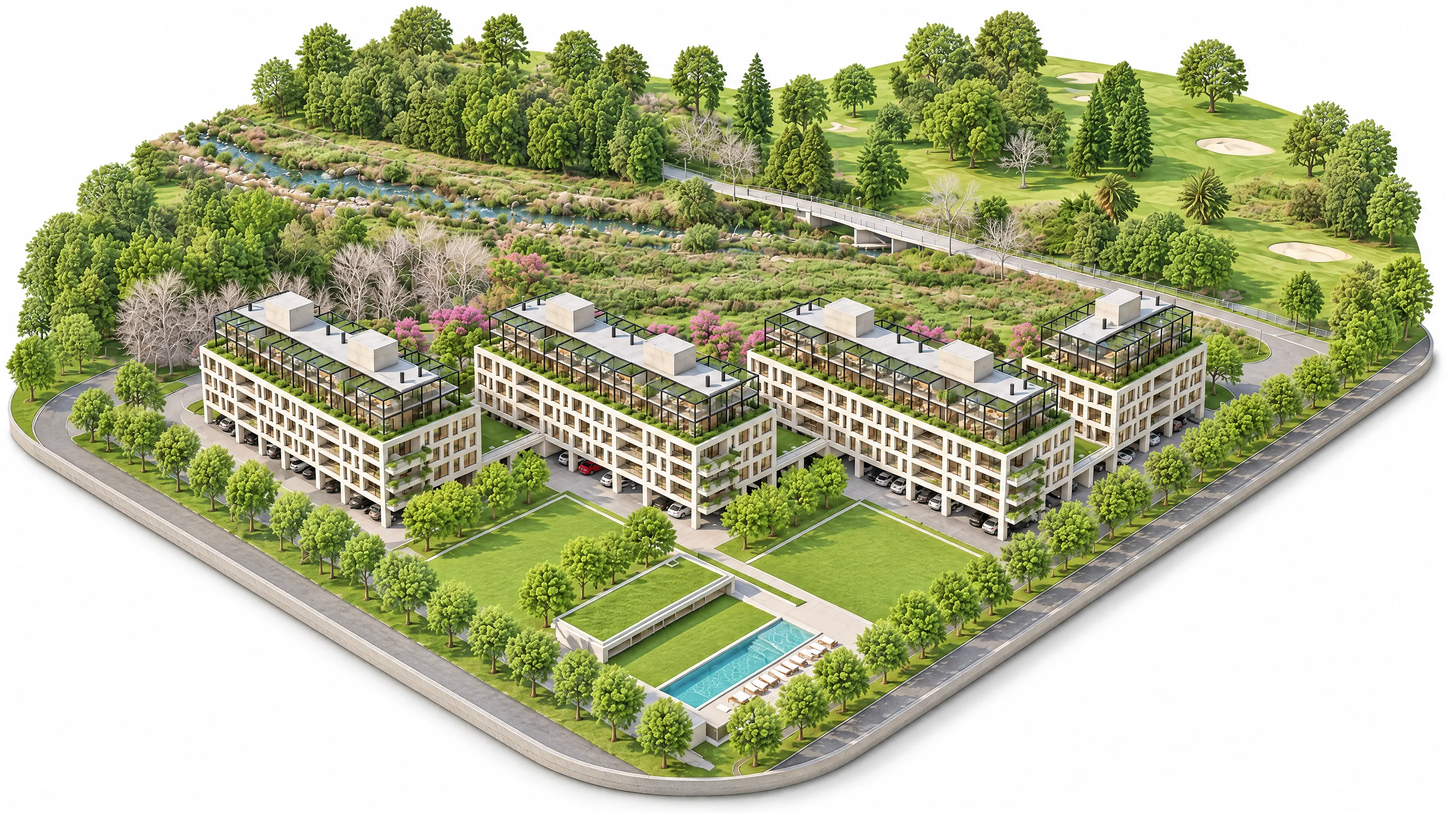
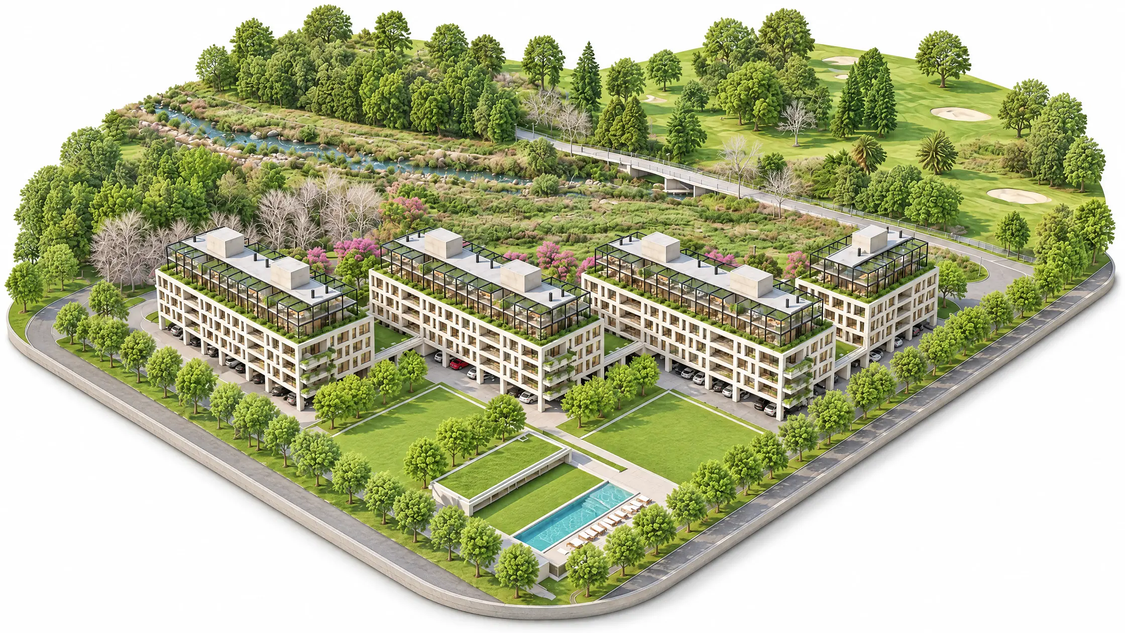
fix(dockgarden): revisión del arquitecto — precio blindado, observador que se desconecta y portada y maqueta más livianas
El precio de Brickfy pasa por Number() y si viniera vacío la ficha dice
Consultar; la limpieza desconecta el observador de la maqueta; la maqueta baja
de 1 MB a 480 KB y el celular recibe su propia portada (166 KB).

diff --git a/src/components/dockgarden/experiencia/markup.ts b/src/components/dockgarden/experiencia/markup.ts
@@ -4,7 +4,7 @@
 // con el script de port (ver memoria dockgarden-experiencia); no editar a mano
 // el HTML sin volver a probar el motor.
 
-export const DGX_PORTADA = "<header class=\"portada\">\n  <img src=\"/images/dockgarden/x/render-frente.webp\" fetchpriority=\"high\" decoding=\"async\" alt=\"Dock Garden visto desde el aire: cuatro edificios bajos frente al arroyo y el golf de Aldea Fisherton\">\n  <div class=\"velo\"></div>\n  <div class=\"wrap pcont\">\n    <p class=\"pm\">Dock Garden<small>Aldea Fisherton</small></p>\n    <div>\n      <h1>Vivir frente al verde,<br>con todo abajo.</h1>\n      <p class=\"plugar\">Departamentos y paseo comercial en Aldea Fisherton, Rosario.</p>\n      <a class=\"btn pri\" href=\"#explorar\">Elegir mi departamento</a>\n    </div>\n  </div>\n</header>"
+export const DGX_PORTADA = "<header class=\"portada\">\n  <picture><source media=\"(max-width: 640px)\" srcset=\"/images/dockgarden/x/render-frente-m.webp\"><img src=\"/images/dockgarden/x/render-frente.webp\" fetchpriority=\"high\" decoding=\"async\" alt=\"Dock Garden visto desde el aire: cuatro edificios bajos frente al arroyo y el golf de Aldea Fisherton\"></picture>\n  <div class=\"velo\"></div>\n  <div class=\"wrap pcont\">\n    <p class=\"pm\">Dock Garden<small>Aldea Fisherton</small></p>\n    <div>\n      <h1>Vivir frente al verde,<br>con todo abajo.</h1>\n      <p class=\"plugar\">Departamentos y paseo comercial en Aldea Fisherton, Rosario.</p>\n      <a class=\"btn pri\" href=\"#explorar\">Elegir mi departamento</a>\n    </div>\n  </div>\n</header>"
 
 export const DGX_EXPLORAR = "<section id=\"explorar\"><div class=\"wrap\">\n  <p class=\"rotulo\">Tu departamento</p>\n  <h2>Elegí el piso y tocá tu unidad</h2>\n  <p class=\"bajada\">Hoy está en venta la Torre 2. Tocá un piso en la maqueta. Después tocá la unidad en el plano para ver sus metros, el precio y recorrerla en 360°.</p>\n  <div class=\"axo\">\n    <svg id=\"axo\" viewBox=\"0 -300 3840 2700\" role=\"group\" aria-label=\"Maqueta de Dock Garden. Tocá un piso de la Torre 2 para ver sus departamentos.\">\n      <image href=\"/images/dockgarden/x/maqueta-a.webp\" x=\"0\" y=\"0\" width=\"3840\" height=\"2160\"/>\n      <defs><clipPath id=\"visT2\"><polygon points=\"1984,780 2900,780 2900,1500 2200,1500 2200,1171 2060,1128 2060,1087 2015,1075 2015,975 1984,975\"/></clipPath></defs>\n      <g id=\"calles\" aria-hidden=\"true\">\n        <text class=\"calle calle-somb\" x=\"2180\" y=\"600\" text-anchor=\"middle\" transform=\"rotate(16 2180 600)\">LA REPÚBLICA</text>\n        <text class=\"calle calle-osc\" x=\"740\" y=\"1755\" text-anchor=\"middle\" transform=\"rotate(31.6 740 1755)\">JOSÉ INGENIEROS</text>\n        <text class=\"calle calle-osc\" x=\"3230\" y=\"1530\" text-anchor=\"middle\" transform=\"rotate(-34.6 3230 1530)\">SAYACU</text>\n      </g>\n      <g id=\"bandas\" clip-path=\"url(#visT2)\"></g>\n      <g id=\"torresN\" aria-hidden=\"true\"></g>\n      <g class=\"rot\" id=\"rot\" aria-hidden=\"true\">\n        <path d=\"M400 -105V700M1000 -105V470M1700 -105V985M2760 -105V1362M3560 -105V400M1300 2290V1490M1680 2290V1625M1990 2290V1760M2544 2290V1395\"/>\n        <text text-anchor=\"middle\"><tspan x=\"400\" y=\"-215\">BOSQUE DE LOS</tspan><tspan x=\"400\" y=\"-140\">CONSTITUYENTES</tspan></text>\n        <text x=\"1000\" y=\"-140\" text-anchor=\"middle\">ARROYO</text>\n        <text text-anchor=\"middle\"><tspan x=\"1700\" y=\"-215\">DÚPLEX</tspan><tspan x=\"1700\" y=\"-140\">CON TERRAZA</tspan></text>\n        <text text-anchor=\"middle\"><tspan x=\"2760\" y=\"-215\">PASEO COMERCIAL</tspan><tspan x=\"2760\" y=\"-140\">EN PB</tspan></text>\n        <text text-anchor=\"middle\"><tspan x=\"3560\" y=\"-215\">ROSARIO</tspan><tspan x=\"3560\" y=\"-140\">GOLF CLUB</tspan></text>\n        <text x=\"1274\" y=\"2350\" text-anchor=\"end\">PARQUE</text>\n        <text x=\"1654\" y=\"2350\" text-anchor=\"end\">SUM</text>\n        <text x=\"2016\" y=\"2350\">PILETA</text>\n        <text x=\"2570\" y=\"2350\">COCHERAS</text>\n      </g>\n    </svg>\n    <p class=\"axo-et\" id=\"axoEt\" aria-live=\"polite\">Tocá un piso para ver sus departamentos</p>\n  </div>\n\n  <div class=\"pisos\" id=\"pisos\" role=\"group\" aria-label=\"Pisos de la Torre 2\"></div>\n\n  <div class=\"cartel\" id=\"cartel\" hidden>\n    <figure class=\"cartel-foto\" id=\"cFoto\" hidden><img src=\"/images/dockgarden/x/paseo-comercial.webp\" alt=\"Frente del paseo comercial de Dock Garden sobre la calle, con los locales en planta baja\" width=\"1480\" height=\"500\" decoding=\"async\"><figcaption>Imagen del proyecto de VERS</figcaption></figure>\n    <strong id=\"cTit\"></strong><span id=\"cTxt\"></span>\n    <a class=\"btn wa\" id=\"cWa\" target=\"_blank\" rel=\"noopener\">Consultar</a>\n  </div>\n\n  <div id=\"zonaPlanta\" hidden>\n    <div class=\"planta-caja\">\n      <div class=\"planta-cab\"><span id=\"pTit\"></span>\n        <span class=\"leyenda\"><span><i style=\"background:rgba(23,97,60,.35);border:2px solid var(--verde)\"></i>En venta</span><span><i style=\"background:rgba(120,130,126,.3);border:2px solid #8d9792\"></i>Vendida</span></span></div>\n      <div class=\"planta-scroll\"><div class=\"planta\">\n        <svg id=\"planta\" viewBox=\"30 120 3380 1120\" role=\"group\" aria-label=\"Plano del piso. Tocá una unidad.\">\n          <image id=\"plImg\" href=\"/images/dockgarden/x/torre2-piso-1.webp\" x=\"0\" y=\"0\" width=\"3780\" height=\"1400\"/>\n          <g id=\"plU\"></g>\n        </svg>\n      </div></div>\n    </div>\n    <p class=\"nota\">Plano real de VERS Arquitectos. Las unidades sin marcar no están a la venta.</p>\n    <div class=\"chips\" id=\"chips\" role=\"group\" aria-label=\"Unidades de este piso\"></div>\n\n    <div class=\"unidad\" id=\"unidad\">\n      <div class=\"lamina\"><img id=\"uLam\" src=\"/images/dockgarden/x/lam-2-1-1.webp\" alt=\"\"><button type=\"button\" class=\"agrandar\" id=\"agrandar\">Ver en grande</button></div>\n      <div class=\"ficha\" aria-live=\"polite\">\n        <h3 id=\"uNom\"></h3>\n        <p class=\"tipo\" id=\"uTipo\"></p>\n        <p class=\"precio\" id=\"uPrecio\"></p>\n        <dl class=\"datos\" id=\"uDatos\"></dl>\n        <div class=\"tours\" id=\"uTours\"></div>\n        <a class=\"btn wa\" id=\"uWa\" target=\"_blank\" rel=\"noopener\">Consultar</a>\n        <a class=\"btn sec\" id=\"uFicha\" target=\"_blank\" rel=\"noopener\">Ver la ficha completa</a>\n      </div>\n    </div>\n  </div>\n</div></section>"
 

diff --git a/src/components/dockgarden/experiencia/motor.js b/src/components/dockgarden/experiencia/motor.js
@@ -30,7 +30,7 @@ var U=[
  {id:'2-4-3',c:'04.03',p:4,t:'duplex',pol:[[1732,165],[1732,567],[1738,568],[1739,682],[2177,682],[2178,567],[2700,567],[2701,682],[3233,681],[3232,165]],et:[2480,400],s:[[DP,'127,20'],['Terrazas y balcón','92,60'],[CD,'26,10']],tot:'245,90',$:375000,pref:1,e:'d',f:7268078}
 ];
 var vivo=null;try{vivo=JSON.parse(($('dgxVivo')||{}).textContent||'null')}catch(_){}
-if(vivo){U.forEach(function(u){var v=vivo[u.id];if(!v){u.e='v';return}u.$=v.p;u.pref=v.pref?1:0;u.e=v.e})}
+if(vivo){U.forEach(function(u){var v=vivo[u.id];if(!v){u.e='v';return}u.$=Number(v.p)||0;u.pref=v.pref?1:0;u.e=v.e})}
 var TOURS={'1d':[['h83cT','Estar-comedor','1d-estar'],['h83cx','Dormitorio','1d-dormitorio']],'3d':[['h83XP','Estar-comedor','3d-estar'],['h83XG','Dormitorio','3d-dormitorio']],duplex:[['h83FW','Estar-comedor','duplex-estar'],['h83Fz','Dormitorio','duplex-dormitorio'],['h839P','Terraza con parrillero','duplex-terraza']]};
 function urlTour(id){return 'https://kuula.co/share/'+id+'?logo=1&info=1&fs=1&vr=0&thumbs=1'}
 var GAL={'1d':[['1d-living','Estar-comedor'],['1d-cocina','Cocina'],['1d-dormitorio','Dormitorio']],'3d':[['3d-punta-living','Estar'],['3d-punta-living-2','Estar al balcón'],['3d-punta-comedor','Comedor'],['3d-punta-cocina','Cocina'],['3d-punta-dormitorio','Dormitorio']],duplex:[['duplex-comedor','Estar-comedor'],['duplex-dormitorio','Dormitorio'],['duplex-terraza','Terraza con parrillero']],'2d':[['2-dormitorios','Plano de 2 dormitorios']]};
@@ -64,7 +64,7 @@ NIV.forEach(function(nv){var b=document.createElement('button');b.type='button';
 /* invitación: los pisos de la Torre 2 se iluminan solos hasta que tocan uno */
 var paso=0;
 function recorre(){if(tocado||quieto)return;luz(2,paso%5,'luz');paso++;setTimeout(function(){if(tocado)return;if(paso%5===0){luz(-1,-1,'luz');setTimeout(recorre,900)}else recorre()},650)}
-if('IntersectionObserver' in window){var ob=new IntersectionObserver(function(en){if(en[0].isIntersecting){ob.disconnect();recorre()}},{threshold:.4});ob.observe($('axo'))}else recorre();
+var ob=null;if('IntersectionObserver' in window){ob=new IntersectionObserver(function(en){if(en[0].isIntersecting){ob.disconnect();recorre()}},{threshold:.4});ob.observe($('axo'))}else recorre();
 
 function elegir(t,n,desdeMaqueta){
   torre=t;piso=n;luz(-1,-1,'luz');luz(t,n,'on');
@@ -99,7 +99,7 @@ function verUnidad(u,toque){
   [].forEach.call($('chips').children,function(b){b.setAttribute('aria-pressed',String(b.dataset.id===u.id))});
   $('uNom').innerHTML='Unidad <span class="num">'+u.c+'</span>';
   $('uTipo').textContent=TIP[u.t]+' · Torre 2 · '+(u.p===4?'pisos 4 y 5':'piso '+u.p);
-  $('uPrecio').innerHTML=u.e==='d'?'<b>'+usd(u.$)+'</b>'+(u.pref?'<span>Valor preferencial SI</span>':''):'<span class="gris">'+(u.e==='r'?'Reservada':'Vendida')+'</span>';
+  $('uPrecio').innerHTML=u.e==='d'?'<b>'+(u.$?usd(u.$):'Consultar')+'</b>'+(u.pref?'<span>Valor preferencial SI</span>':''):'<span class="gris">'+(u.e==='r'?'Reservada':'Vendida')+'</span>';
   $('uDatos').innerHTML=u.s.map(function(s){return '<div><dt>'+s[0]+'</dt><dd>'+s[1]+' m²</dd></div>'}).join('')+'<div class="total"><dt>Superficie total</dt><dd>'+u.tot+' m²</dd></div>';
   var tr=TOURS[u.t]||[];$('uTours').innerHTML=tr.map(function(r){return '<a href="'+urlTour(r[0])+'" target="_blank" rel="noopener"><img src="/images/dockgarden/x/360-'+r[2]+'.webp" alt="">360° '+r[1]+'</a>'}).join('');
   $('uLam').src='/images/dockgarden/x/lam-'+u.id+'.webp';$('uLam').alt='Lámina de VERS de la unidad '+u.c+' con su plano y ubicación';
@@ -128,5 +128,5 @@ function tipologia(t){
 }
 function foto(f){$('gImg').src='/images/dockgarden/x/'+f[0]+'-900.webp';$('gImg').alt=f[1]}
 tipologia('1d');
-return function(){tocado=true;document.removeEventListener('keydown',alEsc);if(mq.removeEventListener)mq.removeEventListener('change',encuadre)};
+return function(){tocado=true;if(ob)ob.disconnect();document.removeEventListener('keydown',alEsc);if(mq.removeEventListener)mq.removeEventListener('change',encuadre)};
 }
